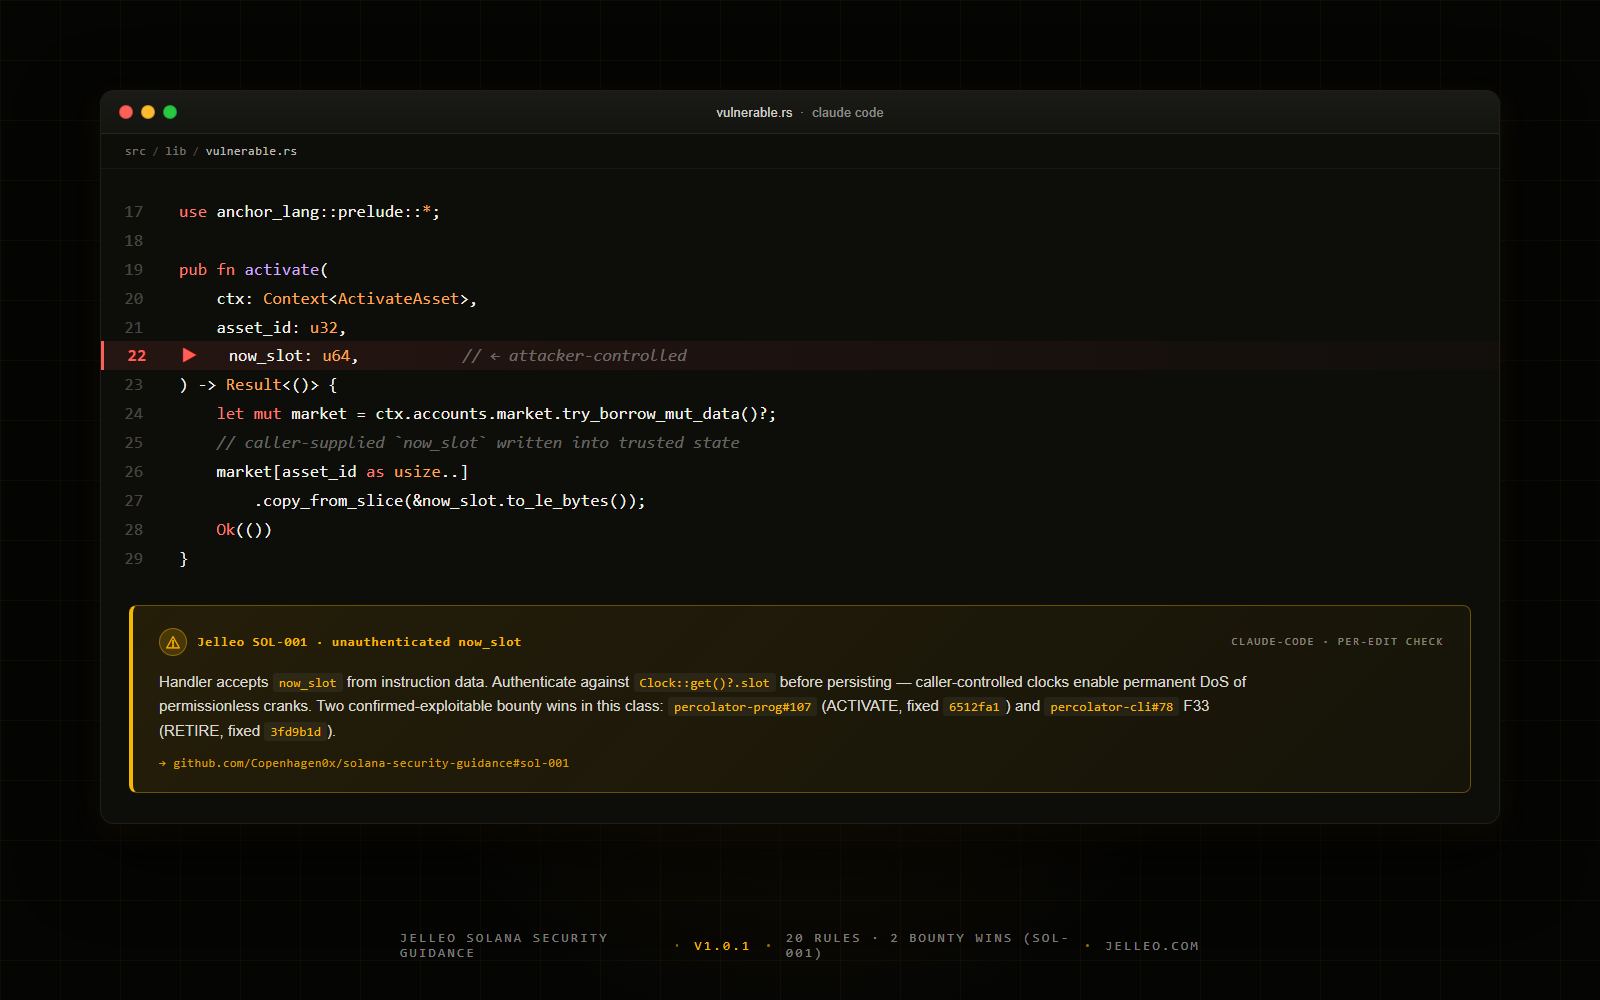
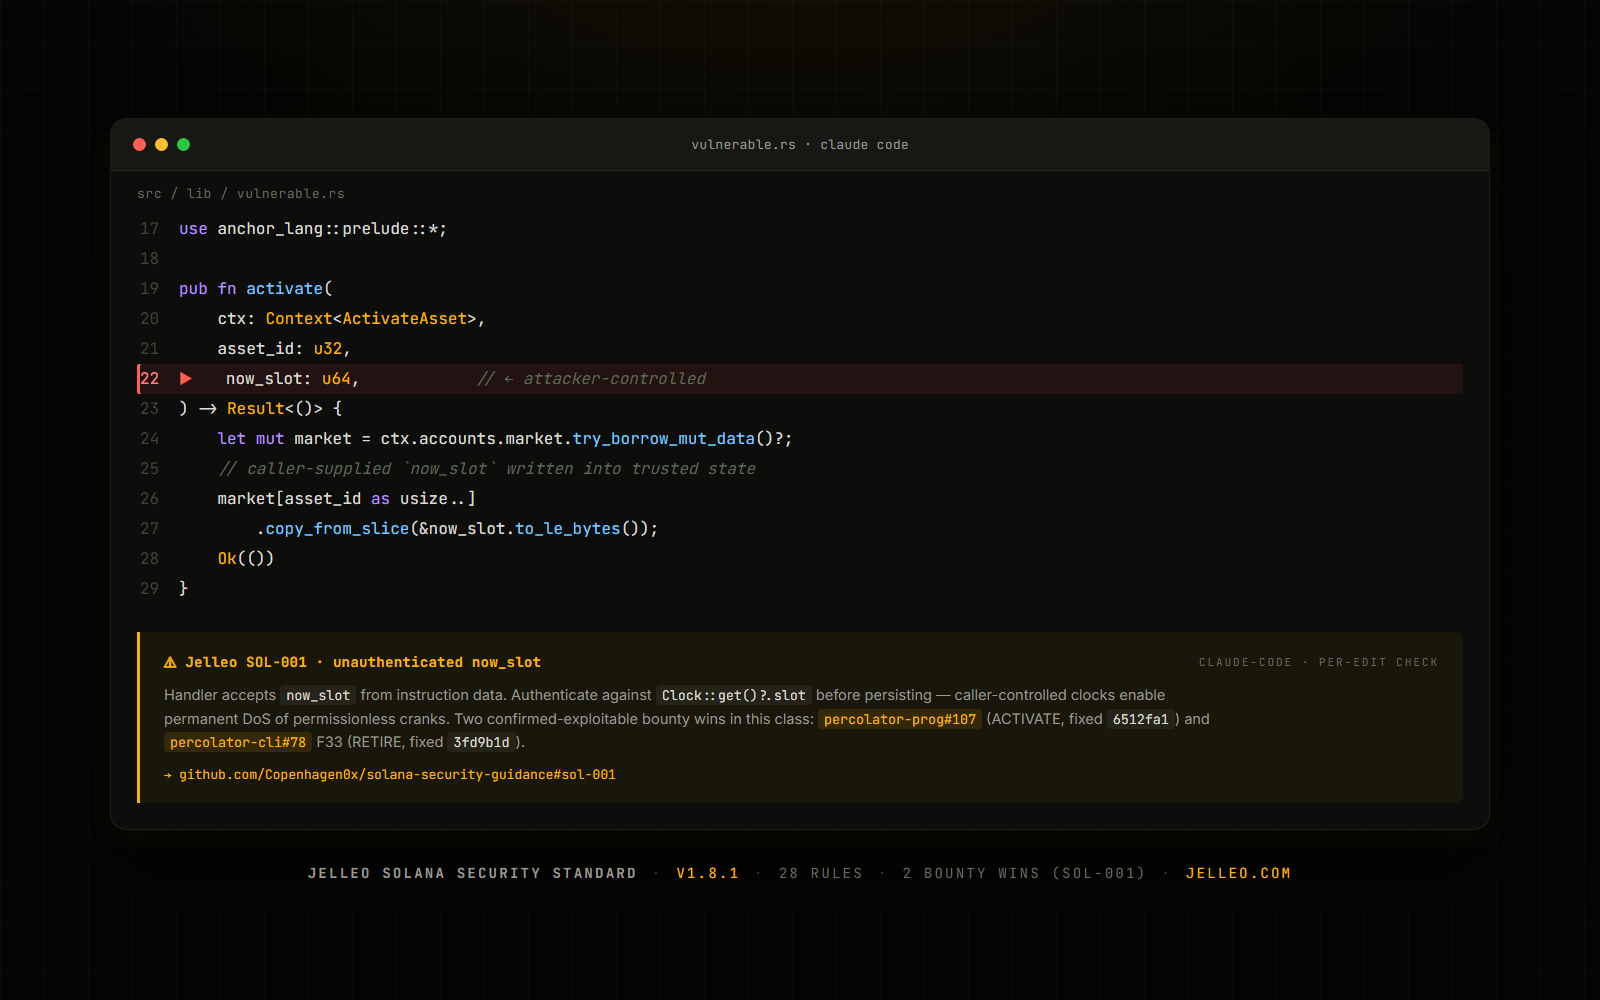
Refresh the SOL-001 demo screenshot (was stale v1.0.1/20-rules + broken footer)
The README/site/OG demo image was a one-off PNG with no source, shipped at
v1.0.1 / 20 rules and never regenerated as the standard grew to 28 — and its
footer row rendered scattered. Rebuilt it: footer is now a single clean row,
reads v1.8.1 / 28 rules, branding is 'Solana Security Standard'. Code + advisory
unchanged (verified against claude-security-guidance.md).

Crucially, the HTML SOURCE is now saved (branding/sol-001-demo.html + a regen
guide) so it can be regenerated and never silently goes stale again.

diff --git a/branding/sol-001-demo.html b/branding/sol-001-demo.html
@@ -1,0 +1,113 @@
+<!doctype html>
+<html lang="en">
+<head>
+<meta charset="utf-8">
+<link rel="preconnect" href="https://fonts.googleapis.com">
+<link rel="preconnect" href="https://fonts.gstatic.com" crossorigin>
+<link href="https://fonts.googleapis.com/css2?family=Inter:wght@400;500;600;700&family=JetBrains+Mono:wght@400;500;700&display=swap" rel="stylesheet">
+<style>
+  :root{
+    --bg:#050504; --win:#0d0d0b; --bar:#171714; --rule:rgba(255,255,255,0.07);
+    --ink:#dcdcd5; --ink-2:#9a9a92; --ink-3:#6a6a62; --amber:#f5b800;
+    --kw:#b694ff; --type:#f5b800; --fn:#7ec7ff; --str:#8fd98f; --num:#f0a868;
+    --com:#5e6a59; --mono:'JetBrains Mono',ui-monospace,monospace; --sans:'Inter',system-ui,sans-serif;
+  }
+  *{box-sizing:border-box;margin:0;padding:0}
+  html,body{width:1600px;height:1000px}
+  body{
+    background:
+      radial-gradient(1200px 600px at 50% -10%, rgba(245,184,0,0.06), transparent 60%),
+      linear-gradient(rgba(255,255,255,0.018) 1px, transparent 1px) 0 0/44px 44px,
+      linear-gradient(90deg, rgba(255,255,255,0.018) 1px, transparent 1px) 0 0/44px 44px,
+      var(--bg);
+    font-family:var(--sans); color:var(--ink);
+    display:flex; flex-direction:column; align-items:center; justify-content:center; gap:34px;
+  }
+  /* ---- editor window ---- */
+  .win{
+    width:1380px; background:var(--win); border:1px solid var(--rule); border-radius:16px;
+    overflow:hidden; box-shadow:0 40px 90px rgba(0,0,0,0.55), 0 10px 30px rgba(245,184,0,0.05);
+  }
+  .bar{height:52px; background:var(--bar); border-bottom:1px solid var(--rule);
+       display:flex; align-items:center; padding:0 22px; position:relative}
+  .dots{display:flex; gap:9px}
+  .dot{width:13px;height:13px;border-radius:50%}
+  .dot.r{background:#ff5f57}.dot.y{background:#febc2e}.dot.g{background:#28c840}
+  .bar .title{position:absolute; left:0; right:0; text-align:center; font-family:var(--mono);
+              font-size:13px; color:var(--ink-2); letter-spacing:0.02em}
+  .crumb{font-family:var(--mono); font-size:13px; color:var(--ink-3); padding:14px 26px 4px;
+         letter-spacing:0.04em}
+  /* ---- code ---- */
+  .code{font-family:var(--mono); font-size:16px; line-height:30px; padding:8px 26px 22px}
+  .row{display:flex; white-space:pre}
+  .row.hl{background:rgba(255,86,86,0.09); box-shadow:inset 3px 0 0 #ff5f57; border-radius:2px}
+  .ln{width:42px; color:#44443e; text-align:right; padding-right:20px; user-select:none}
+  .row.hl .ln{color:#ff8a84}
+  .mk{color:#ff5f57; width:18px}
+  .kw{color:var(--kw)} .ty{color:var(--type)} .fn{color:var(--fn)} .nu{color:var(--num)}
+  .co{color:var(--com); font-style:italic} .st{color:var(--str)} .pl{color:var(--ink)}
+  .mut{color:var(--ink-2)}
+  /* ---- advisory ---- */
+  .adv{margin:6px 26px 26px; background:rgba(245,184,0,0.055); border-left:3px solid var(--amber);
+       border-radius:0 8px 8px 0; padding:20px 24px}
+  .adv-head{display:flex; align-items:center; justify-content:space-between; margin-bottom:12px}
+  .adv-id{font-family:var(--mono); font-size:14px; color:var(--amber); font-weight:700; letter-spacing:0.02em}
+  .adv-id .warn{margin-right:9px}
+  .adv-tag{font-family:var(--mono); font-size:11px; color:var(--ink-3); letter-spacing:0.18em}
+  .adv-body{font-size:14.5px; line-height:1.62; color:var(--ink-2); max-width:118ch}
+  .adv-body .c{font-family:var(--mono); font-size:0.92em; background:rgba(255,255,255,0.06);
+               color:var(--ink); padding:1px 6px; border-radius:4px}
+  .adv-body .h{font-family:var(--mono); font-size:0.92em; background:rgba(245,184,0,0.12);
+               color:var(--amber); padding:1px 6px; border-radius:4px}
+  .adv-link{margin-top:12px; font-family:var(--mono); font-size:13px; color:var(--amber)}
+  /* ---- footer (single clean row) ---- */
+  .foot{display:flex; align-items:center; gap:14px; font-family:var(--mono); font-size:14px;
+        letter-spacing:0.16em; color:var(--ink-3); white-space:nowrap; text-transform:uppercase}
+  .foot .b{color:var(--ink-2); font-weight:700}
+  .foot .a{color:var(--amber)}
+  .foot .sep{color:#33332e}
+</style>
+</head>
+<body>
+  <div class="win">
+    <div class="bar">
+      <div class="dots"><span class="dot r"></span><span class="dot y"></span><span class="dot g"></span></div>
+      <div class="title">vulnerable.rs · claude code</div>
+    </div>
+    <div class="crumb">src / lib / vulnerable.rs</div>
+    <div class="code">
+      <div class="row"><span class="ln">17</span><span class="kw">use</span><span class="pl"> anchor_lang::prelude::*;</span></div>
+      <div class="row"><span class="ln">18</span><span></span></div>
+      <div class="row"><span class="ln">19</span><span class="kw">pub fn </span><span class="fn">activate</span><span class="pl">(</span></div>
+      <div class="row"><span class="ln">20</span><span class="pl">    ctx: </span><span class="ty">Context</span><span class="pl">&lt;</span><span class="ty">ActivateAsset</span><span class="pl">&gt;,</span></div>
+      <div class="row"><span class="ln">21</span><span class="pl">    asset_id: </span><span class="ty">u32</span><span class="pl">,</span></div>
+      <div class="row hl"><span class="ln">22</span><span class="mk">▶</span><span class="pl">   now_slot: </span><span class="ty">u64</span><span class="pl">,</span><span class="co">            // ← attacker-controlled</span></div>
+      <div class="row"><span class="ln">23</span><span class="pl">) -&gt; </span><span class="ty">Result</span><span class="pl">&lt;()&gt; {</span></div>
+      <div class="row"><span class="ln">24</span><span class="pl">    </span><span class="kw">let mut</span><span class="pl"> market = ctx.accounts.market.</span><span class="fn">try_borrow_mut_data</span><span class="pl">()?;</span></div>
+      <div class="row"><span class="ln">25</span><span class="co">    // caller-supplied `now_slot` written into trusted state</span></div>
+      <div class="row"><span class="ln">26</span><span class="pl">    market[asset_id </span><span class="kw">as</span><span class="pl"> usize..]</span></div>
+      <div class="row"><span class="ln">27</span><span class="pl">        .</span><span class="fn">copy_from_slice</span><span class="pl">(&amp;now_slot.</span><span class="fn">to_le_bytes</span><span class="pl">());</span></div>
+      <div class="row"><span class="ln">28</span><span class="ty">    Ok</span><span class="pl">(())</span></div>
+      <div class="row"><span class="ln">29</span><span class="pl">}</span></div>
+    </div>
+    <div class="adv">
+      <div class="adv-head">
+        <div class="adv-id"><span class="warn">⚠</span>Jelleo SOL-001 · unauthenticated now_slot</div>
+        <div class="adv-tag">CLAUDE-CODE · PER-EDIT CHECK</div>
+      </div>
+      <div class="adv-body">
+        Handler accepts <span class="c">now_slot</span> from instruction data. Authenticate against <span class="c">Clock::get()?.slot</span> before persisting — caller-controlled clocks enable permanent DoS of permissionless cranks. Two confirmed-exploitable bounty wins in this class: <span class="h">percolator-prog#107</span> (ACTIVATE, fixed <span class="c">6512fa1</span>) and <span class="h">percolator-cli#78</span> F33 (RETIRE, fixed <span class="c">3fd9b1d</span>).
+      </div>
+      <div class="adv-link">→ github.com/Copenhagen0x/solana-security-guidance#sol-001</div>
+    </div>
+  </div>
+
+  <div class="foot">
+    <span class="b">JELLEO SOLANA SECURITY STANDARD</span>
+    <span class="sep">·</span><span class="a">v1.8.1</span>
+    <span class="sep">·</span><span>28 RULES</span>
+    <span class="sep">·</span><span>2 BOUNTY WINS (SOL-001)</span>
+    <span class="sep">·</span><span class="a">JELLEO.COM</span>
+  </div>
+</body>
+</html>

diff --git a/branding/README.md b/branding/README.md
@@ -1,0 +1,19 @@
+# Branding — generated demo asset
+
+`sol-001-demo.html` is the **source** for the SOL-001 demo screenshot used on the README,
+jelleo.com/guidance (hero + OG card), and the GitHub Marketplace listing (which renders the README).
+
+## Regenerate (do this whenever the version or rule count changes)
+
+```
+chrome --headless=new --force-device-scale-factor=1 --window-size=1600,1000 \
+  --virtual-time-budget=7000 --screenshot=sol-001-demo.png \
+  file://$(pwd)/sol-001-demo.html
+```
+
+Then: copy `sol-001-demo.png` → `../assets/sol-001-demo.png` (this repo) and → the website's
+`guidance-hero.png`. The 1200x630 OG card is the same PNG `object-fit:contain` on a #050504 page.
+
+**Why this file exists:** the original demo image was a one-off PNG with no saved source, so it
+silently went stale (shipped at v1.0.1 / 20 rules long after the standard reached 28). Keep the
+footer (version + rule count) in sync here.
